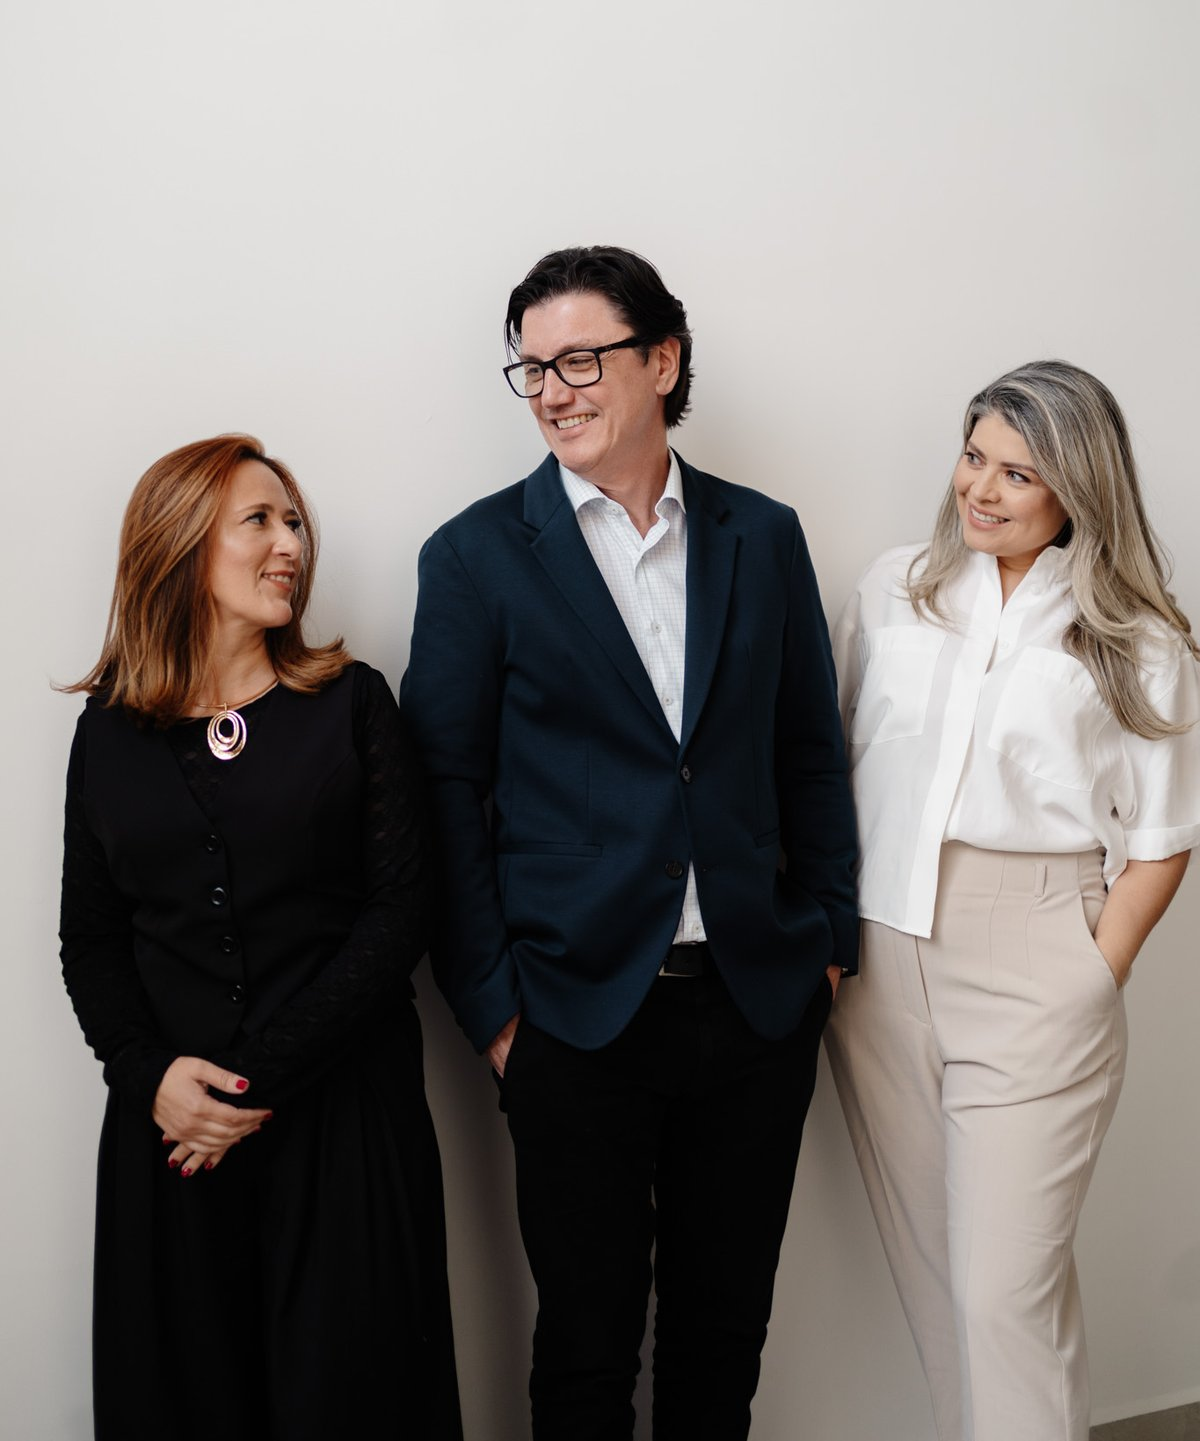
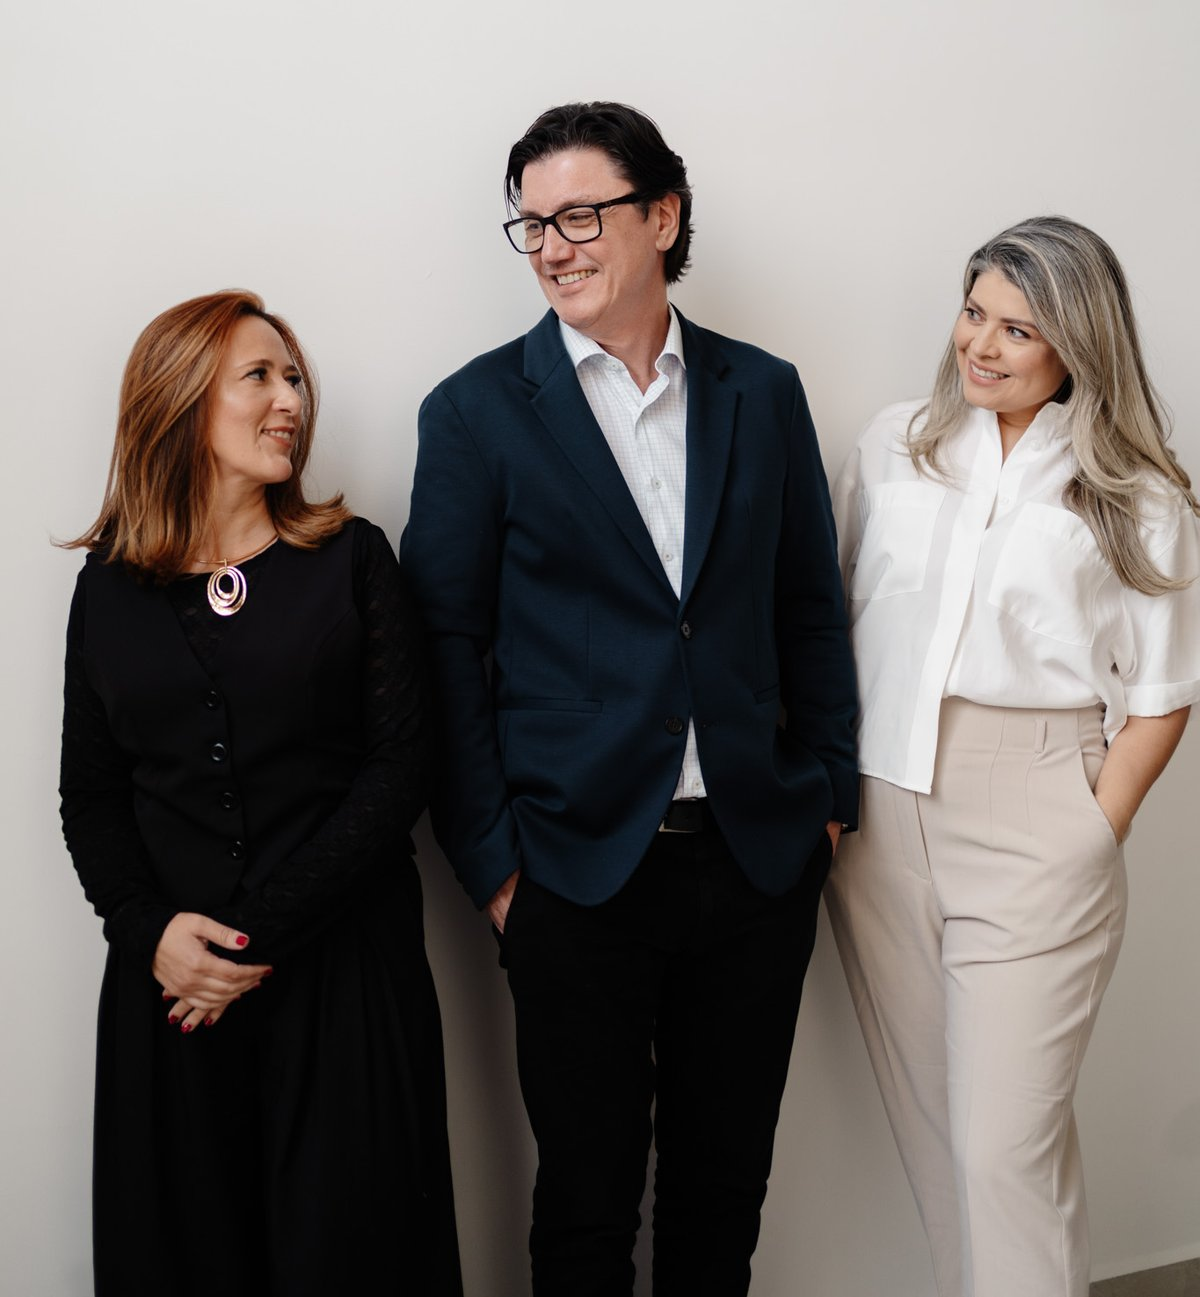
Capa: recorta mais o topo da foto (28%); CSS app-39.css

diff --git a/css/app-39.css b/css/app-39.css
@@ -1309,7 +1309,7 @@ button {
 /* ---------- Fundo único (foto) cobrindo capa + Lista VIP ---------- */
 .cover-wrap {
   position: relative;
-  background-image: url("../assets/equipe.jpg?v=6");
+  background-image: url("../assets/equipe.jpg?v=7");
   background-size: cover;
   background-position: center 100%;
   background-repeat: no-repeat;

diff --git a/index.html b/index.html
@@ -24,7 +24,7 @@
   <!-- Icons (lucide) -->
   <script src="https://unpkg.com/lucide@latest/dist/umd/lucide.min.js" defer></script>
 
-  <link rel="stylesheet" href="css/app-38.css" />
+  <link rel="stylesheet" href="css/app-39.css" />
   <link rel="icon" type="image/png" href="assets/logo.png?v=3" />
 </head>
 <body>
